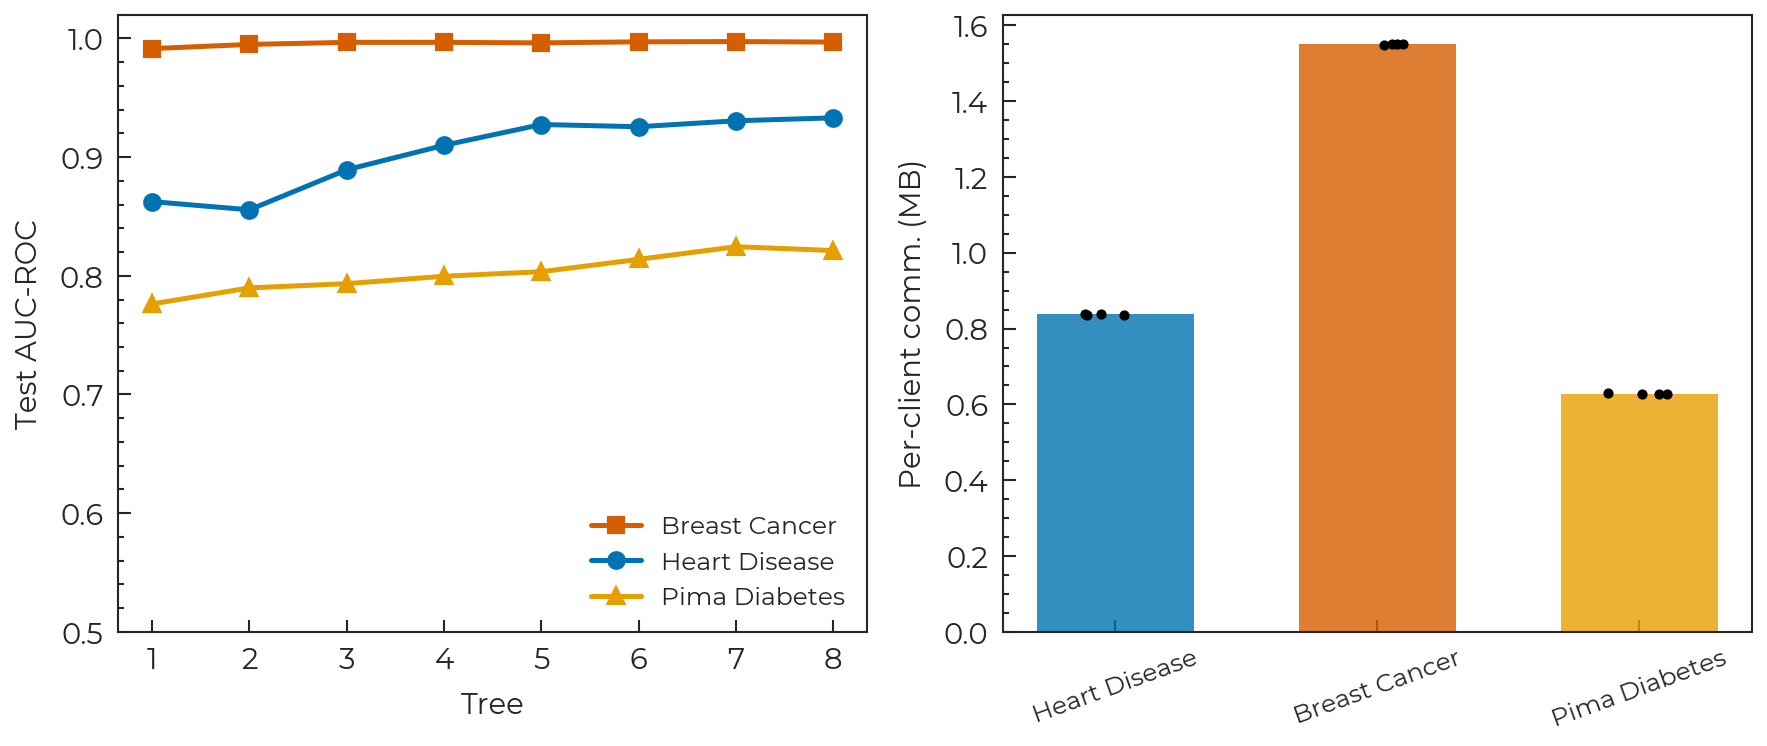
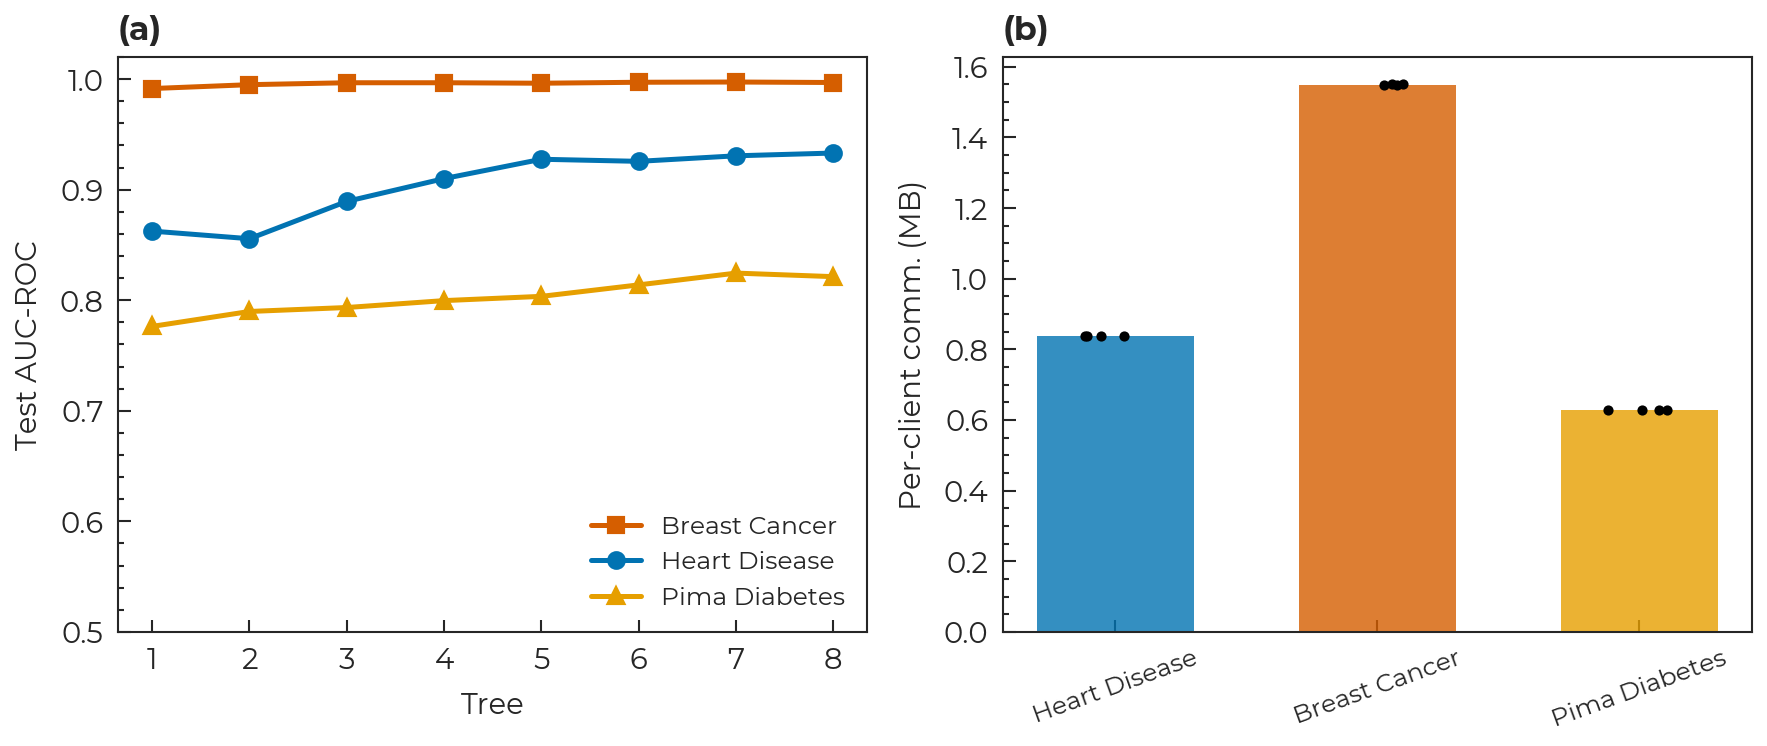
Letter the panels of the multi-panel result figures
The figure captions address panels as (a), (b), ... but the artwork carried
no markers, so the letters are now drawn by analysis/style.py's panel_label
and the four affected figures are regenerated.

Figure generation only; the experiment pipeline and every reported number
are unchanged.

diff --git a/analysis/generate_figures.py b/analysis/generate_figures.py
@@ -52,6 +52,9 @@ TRIGGER_DISPLAY = {"push": "Remote wakeup", "workmanager": "Periodic"}
 TRIGGER_MARKERS = {"push": "o", "workmanager": "s"}
 
 
+PANEL_LETTERS = "abcdefgh"
+
+
 def load_learning_curves():
     curves = {}
     for ds in DATASETS:
@@ -87,14 +90,14 @@ def generate_learning_curves(curves):
         xgb_key = f"{ds}_xgb"
         if xgb_key in curves:
             df = curves[xgb_key]
-            for method, style, color in [
+            for method, linestyle, color in [
                 ("xgb_matched", "--", COLORS["xgb_matched"]),
                 ("xgb_default", ":", COLORS["xgb_default"]),
             ]:
                 sub = df[df["method"] == method]
                 if not sub.empty:
                     grouped = sub.groupby("n_trees")[metric].agg(["mean", "std"]).reset_index()
-                    ax.plot(grouped["n_trees"], grouped["mean"], style,
+                    ax.plot(grouped["n_trees"], grouped["mean"], linestyle,
                             color=color, linewidth=0.9)
                     ax.fill_between(grouped["n_trees"],
                                     grouped["mean"] - grouped["std"],
@@ -107,6 +110,7 @@ def generate_learning_curves(curves):
         ax.set_xlim(0.5, 15.5)
         ax.set_xticks([1, 5, 10, 15])
         ax.grid(True, alpha=0.3)
+        style.panel_label(ax, PANEL_LETTERS[idx])
 
     legend_elements = [
         Line2D([0], [0], color=COLORS["pb"], linewidth=1.0, linestyle="-",
@@ -177,6 +181,7 @@ def generate_dropout_figure():
         ax.set_xlabel("Client dropout rate (%)")
         ax.set_ylabel("AUC-ROC")
         ax.grid(True, alpha=0.3)
+        style.panel_label(ax, PANEL_LETTERS[idx])
 
     fig.tight_layout()
     out = os.path.join(FIGURES_DIR, "dropout_resilience.png")
@@ -283,6 +288,9 @@ def generate_depth_tradeoff():
         ax_cost.grid(axis="y", alpha=0.3)
         ax_cost.set_ylabel("Per-client (MB)", fontsize=7)
 
+        style.panel_label(ax_auc, PANEL_LETTERS[2 * row])
+        style.panel_label(ax_cost, PANEL_LETTERS[2 * row + 1])
+
         # Dataset name as row title above the left subplot
         if row == 0:
             ax_auc.set_title(f"Model quality\n{label}", fontsize=8, pad=4,
@@ -368,6 +376,9 @@ def generate_fleet_auc():
                              rotation=20, fontsize=6)
     ax_comm.set_ylabel("Per-client comm. (MB)")
 
+    style.panel_label(ax_auc, "a")
+    style.panel_label(ax_comm, "b")
+
     fig.tight_layout()
     out = os.path.join(FIGURES_DIR, "fleet_auc.png")
     fig.savefig(out, dpi=300)
@@ -438,6 +449,9 @@ def generate_fleet_participation():
     ax_gap.set_xticklabels([DEVICE_DISPLAY[d] for d in devices],
                             rotation=25, ha="right", fontsize=6)
     ax_gap.set_ylabel("Inter-round interval (min)")
+
+    style.panel_label(ax_trig, "a")
+    style.panel_label(ax_gap, "b")
 
     fig.tight_layout()
     out = os.path.join(FIGURES_DIR, "fleet_participation.png")

diff --git a/analysis/style.py b/analysis/style.py
@@ -22,6 +22,17 @@ COLORS = {
 }
 
 
+def panel_label(ax, letter):
+    """Mark a subplot with the letter its manuscript caption refers to.
+
+    Captions that address panels as "(a)"/"(b)" have nothing to point at
+    unless the letter is drawn in the artwork; the journal supplies the
+    caption but never adds panel markers to a figure file.
+    """
+    ax.text(0.0, 1.02, f"({letter})", transform=ax.transAxes,
+            fontsize=8, fontweight="bold", va="bottom", ha="left")
+
+
 def apply():
     sns.set_theme(style="ticks", context="paper", font=FONT,
                   rc={

diff --git a/analysis/plot_binning_analysis.py b/analysis/plot_binning_analysis.py
@@ -107,6 +107,7 @@ def main():
         ax_dist.set_title(label, fontsize=9, pad=4)
         ax_dist.set_xticklabels([])
         ax_dist.set_yticks([])
+        style.panel_label(ax_dist, "ab"[col])
 
         # Row 2 compares per-bin occupancy between the two methods.
         all_pcts = {}
@@ -147,6 +148,7 @@ def main():
         ax_bars.set_xlabel("Bin")
 
         ax_bars.grid(axis="y", alpha=0.3)
+        style.panel_label(ax_bars, "cd"[col])
 
     axes[0, 0].set_ylabel("Density", fontsize=8)
     axes[1, 0].set_ylabel("Samples (%)", fontsize=8)
